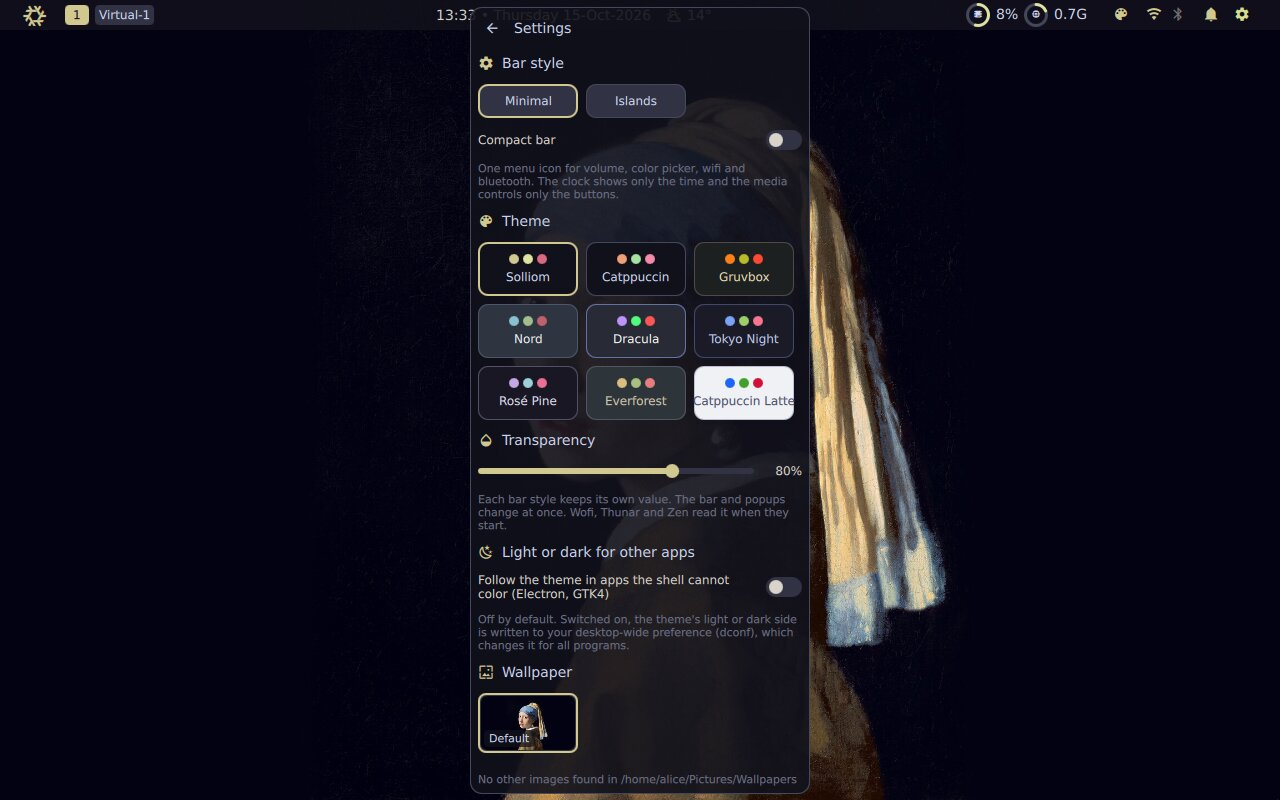
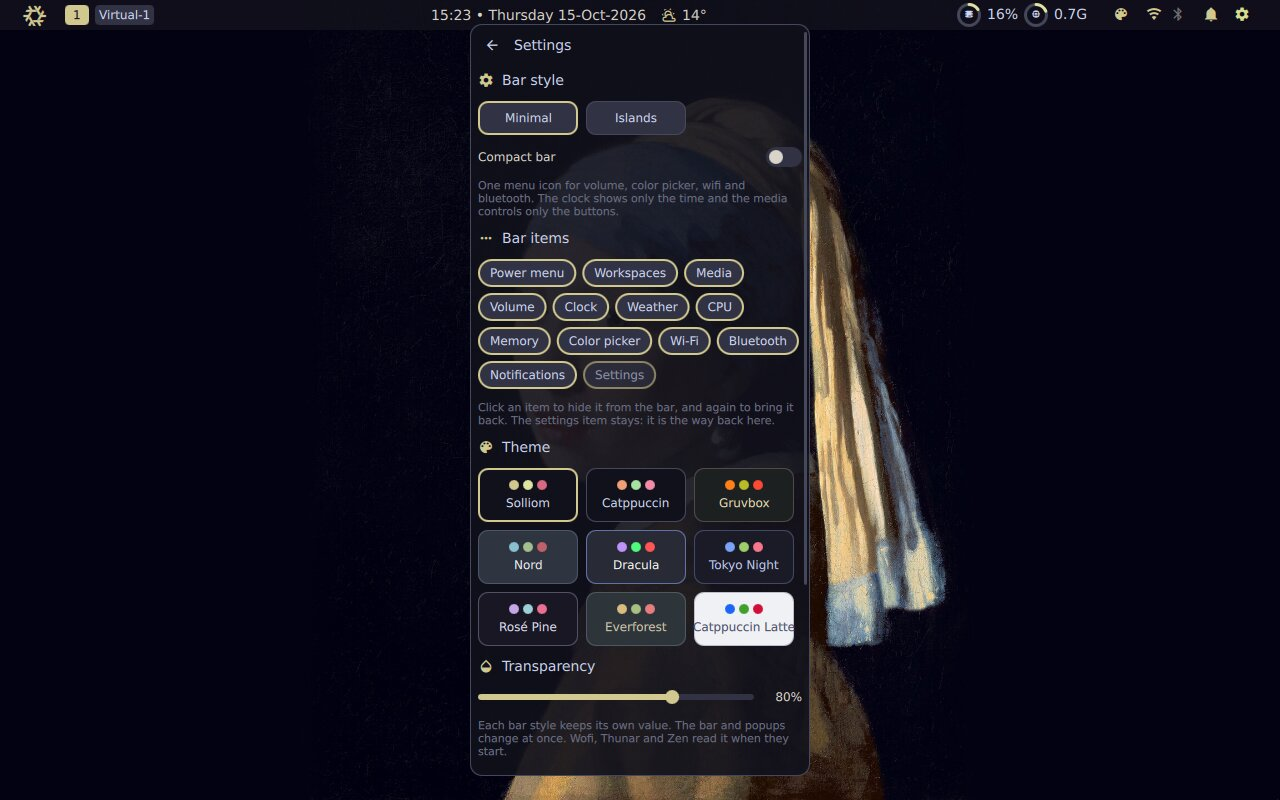
Choose which items show in the bar, from the settings
A Bar items section in the settings window has a chip for every item of the layout in use: click
one to hide it from the bar, and again to bring it back. The choice is saved as hiddenAtoms in
settings.json, one list for every bar style and for the compact bar, and the renderer leaves
hidden items out before it works out the gaps, so the gaps close up and an island with nothing
left in it goes away. The settings item can never be hidden: it is the way back to the switches.

The settings window now fits inside the screen and scrolls when its content is taller, with a thin
scroll bar on the right edge, because the new section made it taller than a small screen.

The screenshot script clicked the theme chips at fixed places that moved, so those are updated, and
the settings and theme pictures in the README are taken again.

Changed region(s): [[0.3438, 0.0, 0.6562, 1.0], [0.75, 0.0, 0.7812, 0.0312]]

diff --git a/singletons/BarStyle.qml b/singletons/BarStyle.qml
@@ -38,6 +38,54 @@ Singleton {
     // the one every style has to include: it is how you get to the settings
     readonly property string requiredAtom: "settings"
 
+    // What the settings call each atom
+    readonly property var atomLabels: ({
+            power: "Power menu",
+            workspaces: "Workspaces",
+            media: "Media",
+            volume: "Volume",
+            clock: "Clock",
+            weather: "Weather",
+            cpu: "CPU",
+            memory: "Memory",
+            colorPicker: "Color picker",
+            wifi: "Wi-Fi",
+            bluetooth: "Bluetooth",
+            bell: "Notifications",
+            settings: "Settings",
+            quickSettings: "Menu (three dots)"
+        })
+
+    // Whether the user has switched an atom off. The settings atom never is: it is the way
+    // back to the switches.
+    function isHidden(atom: string): bool {
+        return atom !== requiredAtom && Settings.atomHidden(atom);
+    }
+
+    // the name of an atom entry of a layout: it is a bare name or { atom, ... }
+    function atomName(entry: var): string {
+        return typeof entry === "string" ? entry : entry.atom;
+    }
+
+    // The atoms of a layout, in order and each once (a group is a list inside the list): what
+    // the settings offer a switch for.
+    function atomsOf(sections: var): var {
+        const names = [];
+        for (const part of ["left", "center", "right"]) {
+            for (const entry of sections[part] ?? []) {
+                for (const inner of Array.isArray(entry) ? entry : [entry]) {
+                    const name = atomName(inner);
+                    if (!names.includes(name))
+                        names.push(name);
+                }
+            }
+        }
+        return names;
+    }
+
+    // the atoms of the layout in use (a compact bar has other atoms than a normal one)
+    readonly property var layoutAtoms: atomsOf(sectionsOf(current))
+
     // ---- what is used ----
 
     // what the user asked for
@@ -215,6 +263,11 @@ Singleton {
         report();
         // The fallback is what you are left with when everything else fails: if it is itself
         // broken there is nothing to fall back to, so say so loudly.
+        // every atom a style may name needs a name for the settings
+        for (const name of atomNames) {
+            if (!atomLabels[name])
+                console.error("sol-shell: the atom " + name + " has no label for the settings (BarStyle.atomLabels)");
+        }
         const own = check(styles[fallbackName]);
         if (own.length > 0)
             console.error("sol-shell: the built-in " + fallbackName + " bar style is broken: " + own.join("; "));

diff --git a/settings/SettingsWindow.qml b/settings/SettingsWindow.qml
@@ -27,9 +27,13 @@ PanelWindow {
     visible: SettingsService.open
 
     readonly property real padding: 8
+    // The window is as tall as the settings, but never taller than the screen (a little
+    // space is left above and below): what does not fit scrolls.
+    readonly property real screenMargin: 24
 
     implicitWidth: 340
-    implicitHeight: (loader.item ? loader.item.implicitHeight : 0) + 2 * padding
+    implicitHeight: Math.min(contentHeight + 2 * padding, screen.height - 2 * screenMargin)
+    readonly property real contentHeight: loader.item ? loader.item.implicitHeight : 0
 
     // a click outside the window closes it
     HyprlandFocusGrab {
@@ -46,19 +50,41 @@ PanelWindow {
         border.color: Theme.surfaceBorder
         border.width: 1
 
-        // Built only while the window is open, so the wallpaper thumbnails are not decoded
-        // every time something else happens.
-        Loader {
-            id: loader
+        // The settings can be taller than the window: they scroll (mouse wheel).
+        Flickable {
+            id: scroller
             anchors.fill: parent
             anchors.margins: root.padding
-            active: root.visible
+            contentWidth: width
+            contentHeight: root.contentHeight
+            clip: true
+            boundsBehavior: Flickable.StopAtBounds
             focus: true
             Keys.onEscapePressed: SettingsService.close()
 
-            sourceComponent: SettingsPage {
-                onBack: SettingsService.close()
+            // Built only while the window is open, so the wallpaper thumbnails are not decoded
+            // every time something else happens.
+            Loader {
+                id: loader
+                width: scroller.width
+                height: root.contentHeight
+                active: root.visible
+
+                sourceComponent: SettingsPage {
+                    onBack: SettingsService.close()
+                }
             }
+        }
+
+        // a thin bar on the right edge while there is more to scroll to
+        Rectangle {
+            visible: scroller.contentHeight > scroller.height
+            x: parent.width - width - 3
+            y: root.padding + scroller.contentY * scroller.height / scroller.contentHeight
+            width: 3
+            height: scroller.height * scroller.height / scroller.contentHeight
+            radius: 1.5
+            color: Theme.surfaceBorder
         }
     }
 }

diff --git a/settings/ItemChip.qml b/settings/ItemChip.qml
@@ -1,0 +1,41 @@
+import QtQuick
+import "../singletons"
+
+// A button for one item of the bar: lit while the item is shown, dim while it is hidden. `atom`
+// is the item's name (see BarStyle.atomNames). The settings item is always shown, so its chip
+// does nothing.
+Rectangle {
+    id: root
+
+    required property string atom
+
+    readonly property bool locked: root.atom === BarStyle.requiredAtom
+    readonly property bool shown: !BarStyle.isHidden(root.atom)
+
+    implicitWidth: label.implicitWidth + 24
+    implicitHeight: 28
+    radius: height / 2
+    color: shown ? Theme.surface : "transparent"
+    border.width: shown ? 2 : 1
+    border.color: shown ? Theme.accent : Theme.surfaceBorder
+    // the settings item cannot be switched off: its chip is drawn quieter
+    opacity: locked ? 0.6 : 1.0
+
+    Text {
+        id: label
+        anchors.centerIn: parent
+        text: BarStyle.atomLabels[root.atom] ?? root.atom
+        color: root.shown ? Theme.primaryText : Theme.mutedText
+        font.family: Fonts.bodyFontFamily
+        font.pixelSize: Fonts.labelMedium
+    }
+
+    MouseArea {
+        anchors.fill: parent
+        enabled: !root.locked
+        cursorShape: root.locked ? Qt.ArrowCursor : Qt.PointingHandCursor
+        // Writing the setting is all it takes: it is saved, and the renderer (a binding on it)
+        // takes the item out of the bar, or puts it back, at once.
+        onClicked: Settings.setAtomHidden(root.atom, root.shown)
+    }
+}

diff --git a/singletons/Settings.qml b/singletons/Settings.qml
@@ -77,6 +77,19 @@ Singleton {
     // what its compact layout is)
     property alias compactBar: saved.compactBar
 
+    // The items of the bar the user has switched off (their names, like "wifi"). One list for every
+    // bar style and for the compact bar: an item is hidden wherever it would be shown. The renderer
+    // leaves them out; BarStyle keeps the settings item from ever being hidden.
+    function atomHidden(atom: string): bool {
+        return (saved.hiddenAtoms ?? []).includes(atom);
+    }
+    function setAtomHidden(atom: string, hidden: bool): void {
+        const list = (saved.hiddenAtoms ?? []).filter(name => name !== atom);
+        if (hidden)
+            list.push(atom);
+        saved.hiddenAtoms = list;
+    }
+
     // true = the theme's light or dark side is also written to the desktop-wide
     // preference (dconf), so programs the shell cannot color (Electron, GTK4) follow it.
     // Off by default: it changes a setting outside this shell.
@@ -101,6 +114,7 @@ Singleton {
             property var opacityByStyle: ({})
             property string barStyle: "minimal"
             property bool compactBar: false
+            property var hiddenAtoms: []
             property bool syncSystemColorScheme: false
         }
 

diff --git a/statusbar/BarRenderer.qml b/statusbar/BarRenderer.qml
@@ -145,9 +145,21 @@ Item {
         };
     }
 
-    // A section's items: atoms, or groups (a list inside the list) that become islands.
+    // A section's items: atoms, or groups (a list inside the list) that become islands. What
+    // the user has switched off is left out first, so the gaps close up: the first one left in a
+    // row has no gap, and a group with nothing left is no island.
     function entries(list: var): var {
-        return (list ?? []).map((entry, index) => {
+        const kept = [];
+        for (const entry of list ?? []) {
+            if (Array.isArray(entry)) {
+                const inner = entry.filter(e => !BarStyle.isHidden(BarStyle.atomName(e)));
+                if (inner.length > 0)
+                    kept.push(inner);
+            } else if (!BarStyle.isHidden(BarStyle.atomName(entry))) {
+                kept.push(entry);
+            }
+        }
+        return kept.map((entry, index) => {
             if (!Array.isArray(entry))
                 return atomEntry(entry, index, root.style.itemSpacing);
             return {

diff --git a/settings/SettingsPage.qml b/settings/SettingsPage.qml
@@ -160,6 +160,36 @@ Column {
         font.pixelSize: Fonts.labelSmall
     }
 
+    // ---------- the items of the bar ----------
+    SectionHeader {
+        icon: Icons.quickSettings
+        title: "Bar items"
+    }
+
+    // one chip for each item of the layout in use: click to hide it, click again to show it
+    Flow {
+        width: root.width
+        spacing: 6
+
+        Repeater {
+            model: BarStyle.layoutAtoms
+
+            ItemChip {
+                required property string modelData
+                atom: modelData
+            }
+        }
+    }
+
+    Text {
+        width: root.width
+        wrapMode: Text.WordWrap
+        text: "Click an item to hide it from the bar, and again to bring it back. The settings item stays: it is the way back here."
+        color: Theme.mutedText
+        font.family: Fonts.bodyFontFamily
+        font.pixelSize: Fonts.labelSmall
+    }
+
     // ---------- theme ----------
     SectionHeader {
         icon: Icons.colorScheme

diff --git a/TODO.md b/TODO.md
@@ -9,14 +9,17 @@ styles (`statusbar/styles/`, both the normal and the compact layout).
 A **Bar items** section in the settings window: a switch for each item, to hide the ones you do not
 want. Do this first: the items below then get their switch for free.
 
-- [ ] Save which items are hidden in `settings.json` (a `hiddenAtoms` list), and have the renderer
+Done: the settings window has a **Bar items** section with a chip per item of the layout in use.
+
+- [x] Save which items are hidden in `settings.json` (a `hiddenAtoms` list), and have the renderer
       leave those out, in every style and in the compact bar
-- [ ] The settings item cannot be switched off (a style must keep it, see `BarStyle.requiredAtom`)
-- [ ] Give every atom a name for people ("Wi-Fi", "Clock"), next to its id in `BarStyle`
-- [ ] An island whose items are all hidden already goes away by itself (checked for media): check it
-- [ ] Open: one list for all styles (simplest), or one per style?
-- [ ] Open: do new items start on or off? (On changes your bar after an update; off hides them until
-      you look)
+- [x] The settings item cannot be switched off (a style must keep it, see `BarStyle.requiredAtom`)
+- [x] Give every atom a name for people ("Wi-Fi", "Clock"), next to its id in `BarStyle`
+- [x] An island whose items are all hidden goes away by itself, and the gaps close up
+- [x] The settings window scrolls when it is taller than the screen
+- [x] Decided: one list for all styles, and a new item starts shown (the list holds what you hide).
+      A new item that should start hidden needs a "hidden by default" mark; not needed yet
+- [x] The README screenshots of the settings window are taken again (and the screenshot script clicks the new places)
 
 ## 2. New items
 

diff --git a/README.md b/README.md
@@ -176,6 +176,7 @@ they are never committed. The file looks like this and can be edited by hand:
     "theme": "solliom",
     "barStyle": "minimal",
     "compactBar": false,
+    "hiddenAtoms": [],
     "backgroundOpacity": 0.8,
     "opacityByStyle": {},
     "wallpaper": "",
@@ -187,6 +188,11 @@ they are never committed. The file looks like this and can be edited by hand:
 - Compact bar (`compactBar`, off by default): each bar style has a compact layout, switched on
   here. The volume ring, color picker, Wi-Fi and Bluetooth become one menu icon, the clock shows
   only the time and the media controls only the buttons.
+- Bar items (`hiddenAtoms`, empty by default): the items of the bar you have switched off, by
+  name (`"weather"`, `"wifi"`, ...). In the settings window, click an item under **Bar items** to
+  hide it and again to bring it back; the bar changes at once. The list is the same for every bar
+  style and for the compact bar, and the settings item (the gear) cannot be hidden: it is the
+  way back. An island whose items are all hidden goes away, and the gaps close up.
 - Bar style: `minimal` (default, one strip along the top) or `islands` (rounded islands
   floating on a see-through bar, after Ashell). The bar changes the moment you pick one. A
   style that cannot be used (a typo in the file, a broken style) shows the minimal one,
